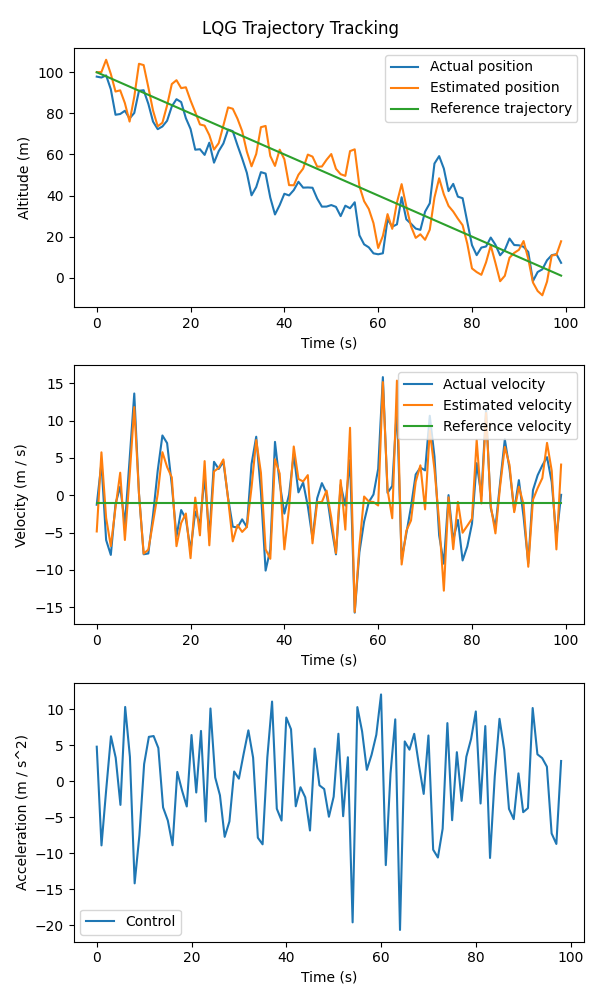
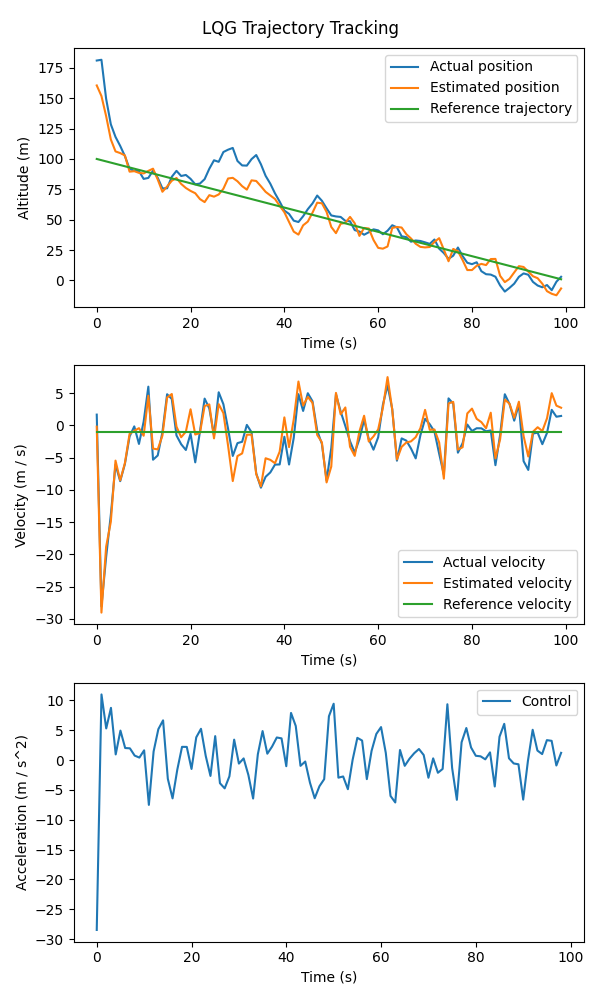
Fixed some array dimensions and added very noisy sampling of state

diff --git a/LQG-tracker/dynamics.py b/LQG-tracker/dynamics.py
@@ -17,7 +17,7 @@ class NoisyDoubleIntegrator:
 
     G: np.ndarray = np.array([[0], [1]])
 
-    H: np.ndarray = np.array([0, 1])
+    H: np.ndarray = np.array([[1, 0], [0, 1]])
 
     x: np.ndarray
 
@@ -25,7 +25,8 @@ class NoisyDoubleIntegrator:
         self,
         sigma_wx2: float,
         sigma_wv2: float,
-        sigma_eta2: float,
+        sigma_etax2: float,
+        sigma_etav2: float,
         mu_x0: float,
         sigma_x02: float,
         mu_v0: float,
@@ -37,18 +38,20 @@ class NoisyDoubleIntegrator:
         """
         self.sigma_wx2 = sigma_wx2
         self.sigma_wv2 = sigma_wv2
-        self.sigma_eta2 = sigma_eta2
+        self.sigma_etax2 = sigma_etax2
+        self.sigma_etav2 = sigma_etav2
         self.mu_x0 = mu_x0
         self.sigma_x02 = sigma_x02
         self.mu_v0 = mu_v0
         self.sigma_v02 = sigma_v02
 
-        self.x = np.array(
-            [
-                [np.random.normal(loc=self.mu_x0, scale=np.sqrt(self.sigma_x02))],
-                [np.random.normal(loc=self.mu_v0, scale=np.sqrt(self.sigma_v02))],
-            ]
-        )
+        self.W = np.diag([self.sigma_wx2, self.sigma_wv2])
+        self.ETA = np.diag([self.sigma_etax2, self.sigma_etav2])
+
+        self.x = np.random.normal(
+            loc=[self.mu_x0, self.mu_v0],
+            scale=[np.sqrt(self.sigma_x02), np.sqrt(self.sigma_v02)],
+        ).reshape(2, 1)
 
     def step(self, u: float):
         w = np.array(
@@ -61,8 +64,8 @@ class NoisyDoubleIntegrator:
         self.x = self.F @ self.x + self.G * u + w
 
     def measure(self) -> np.ndarray:
-        eta = np.random.normal(scale=np.sqrt(self.sigma_eta2))
-        return self.H @ self.x + eta
+        eta = np.random.multivariate_normal([0, 0], self.ETA).reshape(2, 1)
+        return np.array(self.H @ self.x + eta)
 
     def get_actual(self) -> np.ndarray:
         return self.x

diff --git a/LQG-tracker/estimator.py b/LQG-tracker/estimator.py
@@ -16,14 +16,14 @@ class KalmanFilter:
     def __init__(
         self, mu_x: np.ndarray, cov_x: np.ndarray, system: NoisyDoubleIntegrator
     ):
-        self.x_hat = mu_x
+        self.x_hat = mu_x.reshape(len(mu_x), 1)
         self.S = cov_x
 
         self.F = system.F
         self.G = system.G
         self.H = system.H
-        self.W = np.diag([system.sigma_wx2, system.sigma_wv2])
-        self.ETA = system.sigma_eta2
+        self.W = system.W
+        self.ETA = system.ETA
 
     def get_estimate(self) -> np.ndarray:
         return self.x_hat
@@ -35,8 +35,10 @@ class KalmanFilter:
         self.S = self.F @ self.S @ self.F.T + self.W
 
     def measurement_update(self, y: np.ndarray):
-        K = self.S @ self.H / (self.ETA + self.H @ self.S @ self.H.T)
-        self.x_hat = self.x_hat + K * (y - self.H @ self.x_hat)
+        K = self.S @ np.dot(
+            self.H, np.linalg.inv(self.ETA + self.H @ self.S @ self.H.T)
+        )
+        self.x_hat = self.x_hat + np.dot(K, (y - self.H @ self.x_hat))
         self.S = (np.identity(2) - K @ self.H) @ self.S @ (
             np.identity(2) - K @ self.H
-        ).T + K * self.ETA * K.T
+        ).T + np.dot(K, self.ETA) @ K.T

diff --git a/LQG-tracker/control.py b/LQG-tracker/control.py
@@ -70,14 +70,12 @@ class LQGTracker:
         for i in range(self.num_steps - 1):
             self.K_series[i] = self._gain(P_series[i])
 
-        print(self.K_series)
         v_series = np.zeros((self.num_steps, 2, 1))
         v_series[-1] = self.M @ self.r_series[-1]
         for i in range(2, self.num_steps + 1):
             v_series[-i] = (
                 self.system.F - self.system.G @ self.K_series[-(i - 1)]
             ).T @ v_series[-(i - 1)] + self.Q @ self.r_series[-i]
-        print(v_series)
 
         self.Kov_series = np.zeros((self.num_steps - 1))
         for i in range(len(self.Kov_series)):
@@ -116,9 +114,10 @@ class LQGTracker:
 
         for i in range(self.num_steps - 1):
             x, x_hat, u_star = self._measure_and_step(i)
-            x_trace[i], x_hat_trace[i], u_trace[i] = x, x_hat[:, np.newaxis], u_star
+            print(x_hat)
+            x_trace[i], x_hat_trace[i], u_trace[i] = x, x_hat, u_star
         x, x_hat = self._measure()
-        x_trace[-1], x_hat_trace[-1] = x, x_hat[:, np.newaxis]
+        x_trace[-1], x_hat_trace[-1] = x, x_hat
 
         pos_trace = x_trace[:, 0]
         v_trace = x_trace[:, 1]

diff --git a/LQG-tracker/main.py b/LQG-tracker/main.py
@@ -10,9 +10,10 @@ import numpy as np
 def main():
     sigma_wx2 = 9
     sigma_wv2 = 4
-    sigma_eta2 = 4
+    sigma_etax2 = 400
+    sigma_etav2 = 4
     mu_x0 = 100
-    sigma_x02 = 100
+    sigma_x02 = 2500
     mu_v0 = -1
     sigma_v02 = 36
 
@@ -28,7 +29,14 @@ def main():
     )
 
     system = NoisyDoubleIntegrator(
-        sigma_wx2, sigma_wv2, sigma_eta2, mu_x0, sigma_x02, mu_v0, sigma_v02
+        sigma_wx2,
+        sigma_wv2,
+        sigma_etax2,
+        sigma_etav2,
+        mu_x0,
+        sigma_x02,
+        mu_v0,
+        sigma_v02,
     )
     estimator = KalmanFilter(
         mu_x=np.array([mu_x0, mu_v0]).T,
